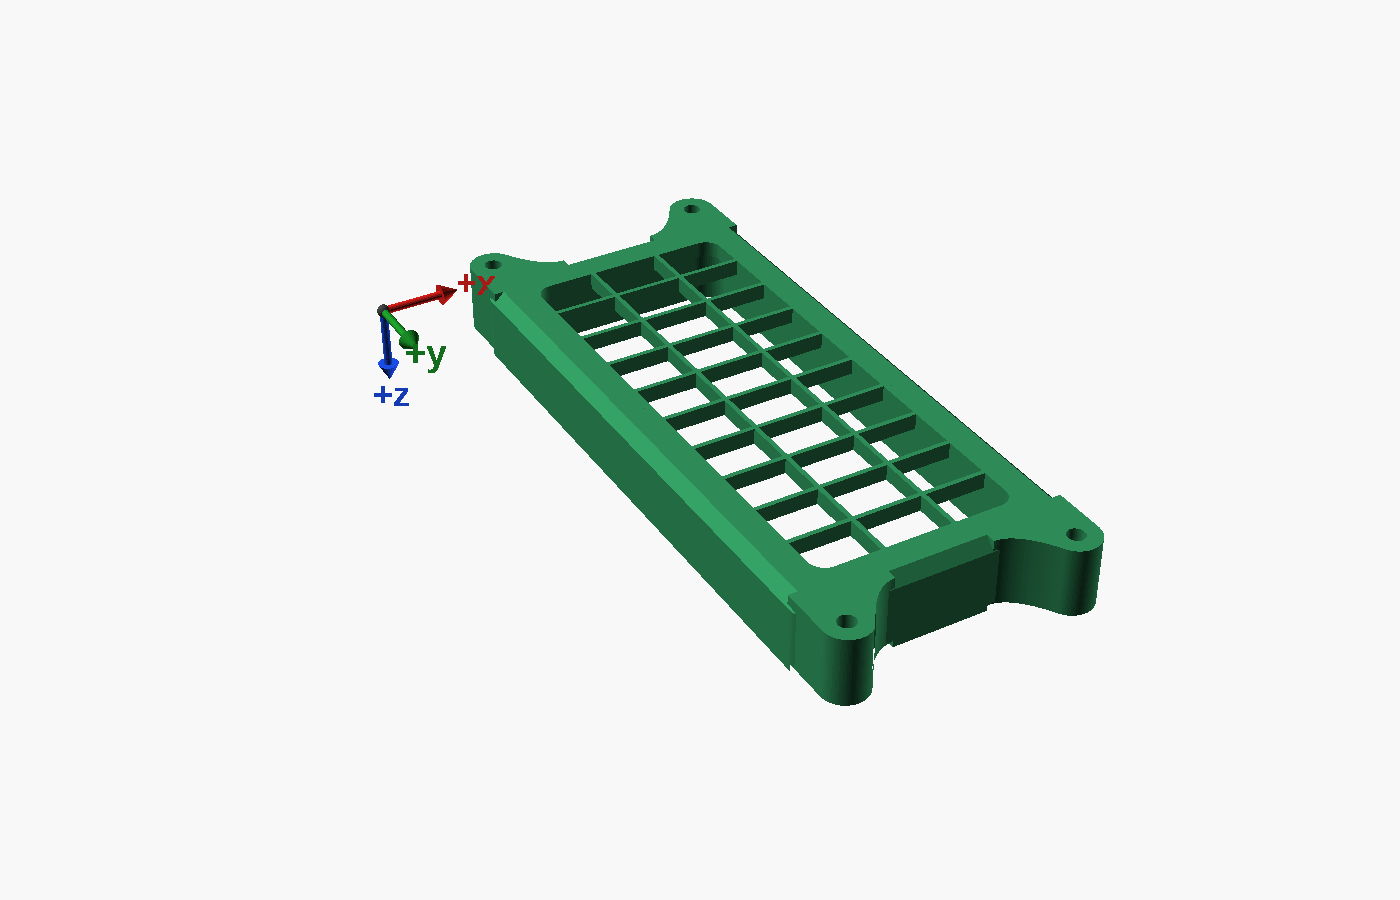
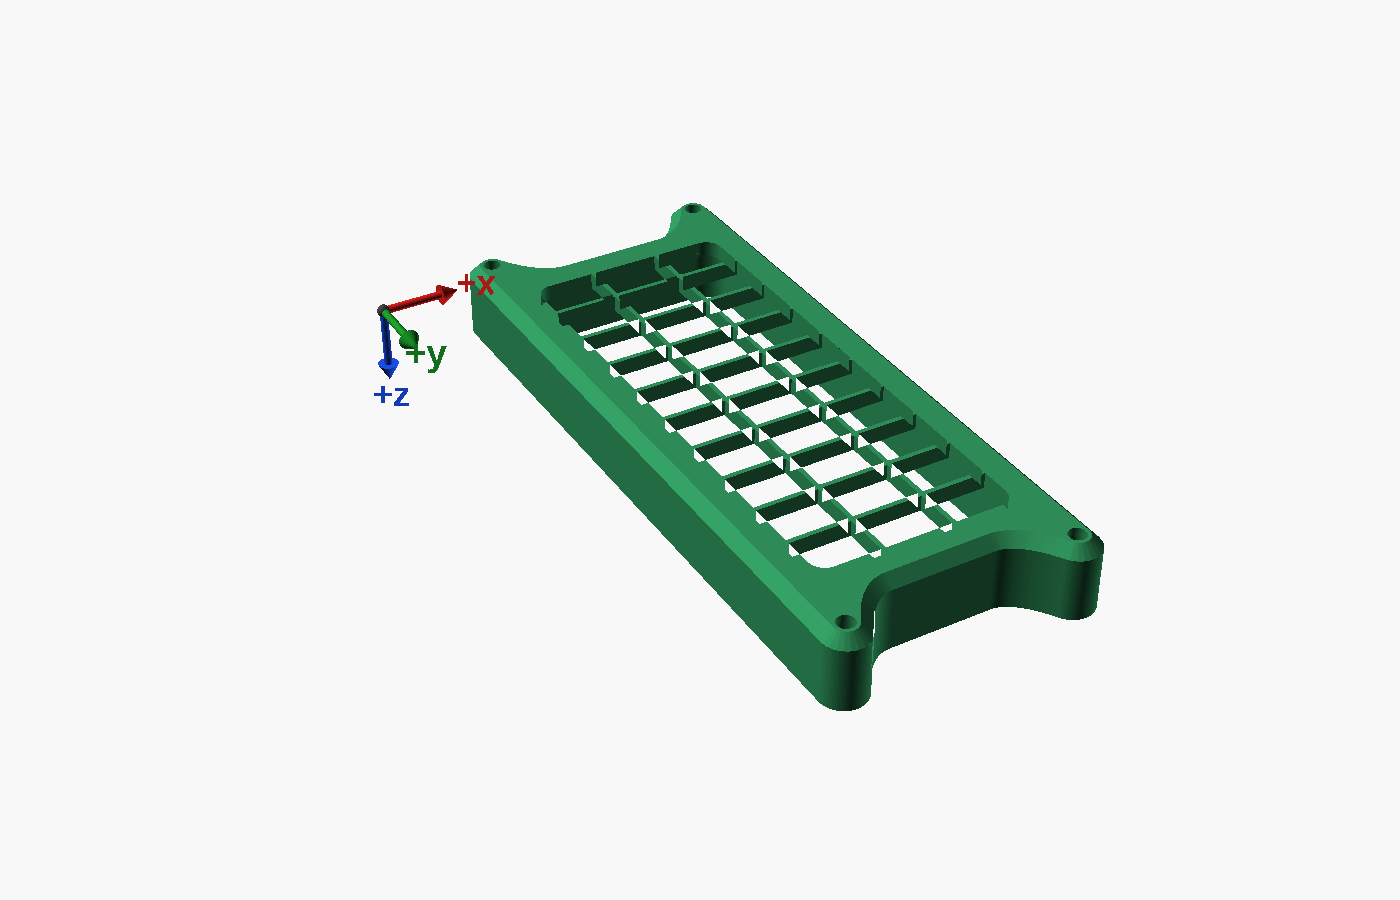
feat(bentobox): tabs seamless with walls and floors; heads sunk flush
Alon, 8 Oct: the tabs had seams - their sides 0.3 mm inside the side
faces, their parabolas and brackets dipping into the walls, a notch in
the corner under each bracket, the upper tabs 0.05 mm off the floor,
and the chamfer and collar stopping short at every tab.

Each sealed part is now cut to one outline drawn in the model, tabs and
all: the originals' outsides 0.05 mm inside their own faces, and their
floors and tops at a sealed joint likewise, so no new face lies a hair
from an imported one. A tab's side runs straight on from the side face,
its parabola leaves the end wall tangent, its floor or top is the
part's. Under a nut's tab the bracket's face fills the rounded corner
smoothly, so the side face runs on into it, under 45 degrees anywhere.
The collar and the upper parts' chamfer follow the outline round the
tabs too (a Minkowski loft of the outline). The section is the outline
prism, chamfered the same way.

The upper parts' tabs stand 8.2 mm: each M3 head sinks flush into a
counterbore, 5 mm of tab under it, screw lengths unchanged.

Fits 25/25, controls 31/31; LunchBox 11/11, 10/10; the four changed
parts each one closed body, sliced clean.

diff --git a/docs/bentobox-scrubber.md b/docs/bentobox-scrubber.md
@@ -141,17 +141,24 @@ housing are sealed:
   bottom presses it down as the two faces meet, a fifth of its height. Its hollow is vented through its
   inner wall, to the box's inside: a dead end, and the outer wall and the ridge seal. The bead's size is a
   first choice, not yet tried in print.
-- **The upper part sits in the lower one.** A collar 1 mm tall runs round the lower part's top edge, its
-  inner face at 45 degrees; the upper part's bottom edge is cut back at 45 degrees to sit in it, 0.2 mm
-  clear. It centres the parts, and it is a second barrier outside the bead. Both print without support.
-- **Four tabs and screws, where the magnets were.** At each corner a tab stands 9.4 mm past the end wall,
-  its outline a parabola leaving the wall and running on flush with the side face. Under each nut's tab, a
-  bracket whose face is a cubic in its height: tangent to the wall at its foot, 45 degrees at the tab, so it
-  prints without support. The fan section is shorter than a bracket, so its brackets run down to its bottom
-  face. Each nut slides in from the tab's end.
+- **The upper part sits in the lower one.** A collar 1 mm tall runs round the lower part's top edge, round
+  the tabs too, its inner face at 45 degrees; the upper part's bottom edge, tabs and all, is cut back at 45
+  degrees to sit in it, 0.2 mm clear. It centres the parts, and it is a second barrier outside the bead. Both
+  print without support.
+- **Four tabs and screws, where the magnets were.** At each corner a tab stands 9.4 mm past the end wall.
+  The tabs are seamless with the walls and floors: each part's outline is one shape, tabs and all, so a
+  tab's side runs straight on from the side face, its outline leaves the end wall along a parabola, tangent
+  to it, and its floor or top is the part's own. For that the originals' outsides are cut 0.05 mm inside
+  their own faces, a quarter of a layer, and their floors and tops at a sealed joint likewise. Under each
+  nut's tab, a bracket whose face is a cubic in its height: tangent to the wall at its foot, 45 degrees at
+  the tab, so it prints without support. In the rounded corner under the tab it fills the corner smoothly,
+  so the side face runs on into the bracket's side. The fan section is shorter than a bracket, so its
+  brackets run down to its bottom. Each nut slides in from the tab's end.
 - **The screws.** Four M3 × 12 through the HEPA holder's tabs into nuts in the carbon housing's. Four
   M3 × 25 through the carbon housing's bottom tabs and pillars in the section into nuts in the fan
-  section's: one screw at each corner holds both of the section's joints.
+  section's: one screw at each corner holds both of the section's joints. Each head sinks flush into a
+  counterbore in its tab, 0.2 mm under the top: the upper parts' tabs stand 8.2 mm, 5 mm of it under the
+  head.
 
 ![The sealed joints pulled apart: the fan section, the section, the carbon housing and the HEPA holder, a bead ring over each lower part's groove, the screws](bentobox/joints.png)
 
@@ -231,14 +238,14 @@ ring flat. No supports, no brim. Standing, the base's bay roof is a 41 mm bridge
 
 | Part | Material | Count | Time | Filament |
 |---|---|---|---|---|
-| Section | ASA | 1 | 1 h 59 m | 17 g |
+| Section | ASA | 1 | 1 h 57 m | 17 g |
 | Paper ring | ASA | 1 | 1 h 8 m | 8 g |
 | Paper cap | TPU 95A | 2 | 52 m each | 5 g each |
 | Base | ASA | 1 | 4 h 17 m | 44 g |
-| Fan section | ASA | 1 | 3 h 43 m | 36 g |
+| Fan section | ASA | 1 | 3 h 42 m | 36 g |
 | Plate | ASA | 1 | 37 m | 8 g |
-| Carbon housing | ASA | 1 | 7 h 25 m | 71 g |
-| HEPA holder | ASA | 1 | 4 h 41 m | 48 g |
+| Carbon housing | ASA | 1 | 7 h 23 m | 71 g |
+| HEPA holder | ASA | 1 | 4 h 43 m | 48 g |
 | Bead ring | TPU 95A | 3 | 9 m each | 1 g each |
 
 Times and weights are PrusaSlicer's, at 0.2 mm with the house profile `0.2mm QUALITY @MK3 - no skirt, no
@@ -371,7 +378,7 @@ section on the base and the plate in its recess, sets a nut in each slot and sli
 slot's mouth, and one in each fan screw's pocket and draws it 10 mm down out of it, runs each screw from its head to its tip, and the wires down the tube, and the fans' air
 down into the base past the posts. Each must come out empty. Every check has a positive control,
 something broken on purpose that it must catch, and the run fails if one passes unnoticed: 25 fits and
-30 controls.
+31 controls.
 
 [`bentobox.params.scad`](../models/bentobox/bentobox.params.scad) holds the original's dimensions, measured
 by sectioning its STLs, and every setting of the section and of the paper's frame.
